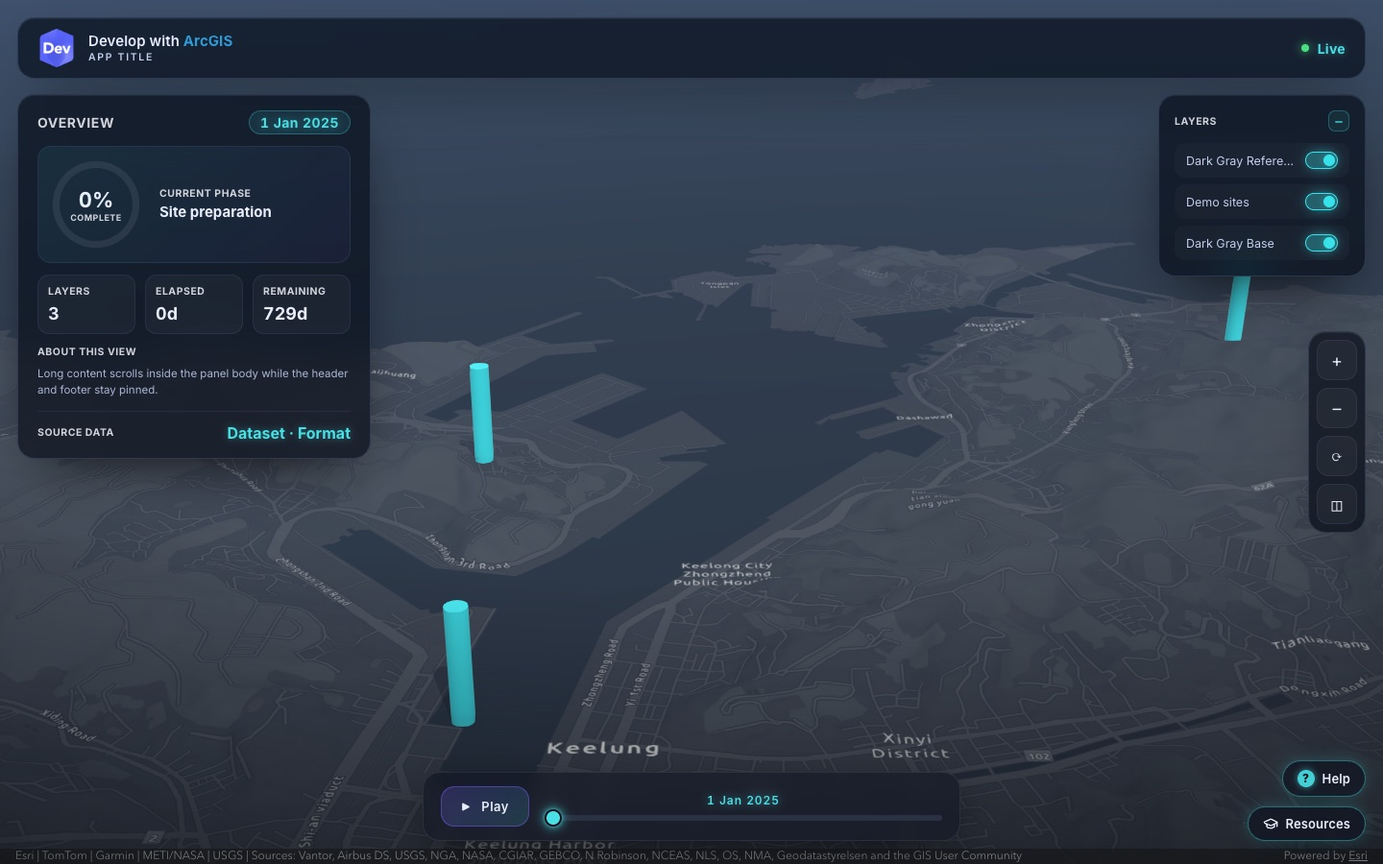
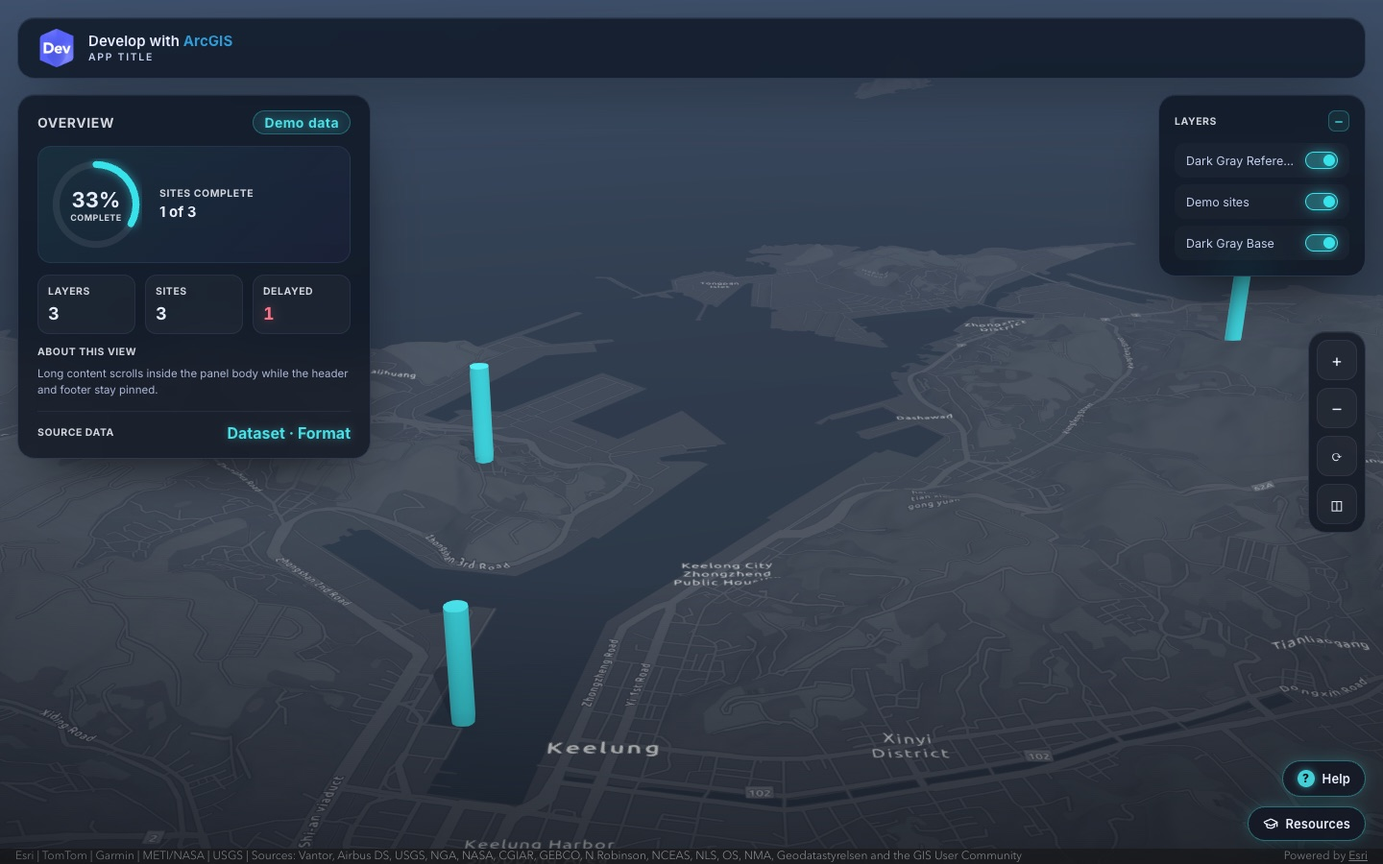
Make the timeline dock optional and remove the Live status
- Starter: the timeline dock is commented out by default and its script
  block only runs when the dock exists. The overview panel now summarizes
  the demo sites instead of depending on the timeline.
- Top bar: drop the "Live" status text.
- Kit v1.1: the FAB stack and the phone layers panel only lift above the
  dock when there is one (body:has(.dock)).
- SKILL.md asks whether an app needs a timeline before adding the dock;
  patterns, checklist, retrofit guide, README and screenshot updated.

diff --git a/skills/arcgis-js-app-template/assets/starter.js b/skills/arcgis-js-app-template/assets/starter.js
@@ -1,6 +1,7 @@
 // =============================================================================
 // App entry (copy to main.js). Kit wiring is marked KIT; replace the DEMO parts
-// with the app's WebScene/WebMap, layers and logic.
+// with the app's WebScene/WebMap, layers and logic. OPTIONAL parts only run when
+// their markup is enabled in index.html; delete them if the app doesn't need them.
 // =============================================================================
 
 import {
@@ -82,6 +83,19 @@ const view = new SceneView({
   )
 );
 
+// --- DEMO: dashboard summarizing the demo sites --------------------------------
+const sites = demoLayer.graphics.toArray().map((graphic) => graphic.attributes);
+const complete = sites.filter((site) => site.status === "Complete").length;
+const delayed = sites.filter((site) => site.status === "Delayed").length;
+const pctComplete = Math.round((complete / sites.length) * 100);
+document.getElementById("progressRing").style.setProperty("--pct", pctComplete);
+document.getElementById("progressPct").textContent = `${pctComplete}%`;
+document.getElementById("completeSummary").textContent = `${complete} of ${sites.length}`;
+document.getElementById("siteCount").textContent = String(sites.length);
+const delayedCount = document.getElementById("delayedCount");
+delayedCount.textContent = String(delayed);
+delayedCount.classList.toggle("is-bad", delayed > 0);
+
 // --- KIT: match the view to the theme, reveal when it has drawn ---------------
 applyViewTheme(view);
 await boot.track(whenViewReady(view));
@@ -111,7 +125,6 @@ renderLayerToggles(view.map.allLayers.filter((layer) => layer.type !== "elevatio
 bindFlyout("#toolBtn", "#toolFlyout", {
   onToggle: (open) => {
     // e.g. create an <arcgis-slice> in #toolContainer when open, destroy it when closed
-    document.getElementById("status").textContent = open ? "Tool active" : "Live";
   }
 });
 
@@ -143,44 +156,45 @@ view.on("pointer-leave", () => {
   tooltip.hide();
 });
 
-// --- DEMO: timeline dock driving the dashboard --------------------------------
+// --- OPTIONAL: timeline dock ----------------------------------------------------
+// Only for apps with time-based data, phases or animation. Runs when the dock in
+// index.html is uncommented; delete this block if the app has no timeline.
 const scrub = document.getElementById("scrub");
-const repaint = bindRange(scrub);
-const start = new Date(2025, 0, 1);
-const end = new Date(2026, 11, 31);
-const dayMs = 86400000;
-const phases = ["Site preparation", "Foundations", "Structure", "Envelope", "Fit-out"];
+if (scrub) {
+  const repaint = bindRange(scrub);
+  // EDIT: the app's time span
+  const start = new Date(2025, 0, 1);
+  const end = new Date(2026, 11, 31);
 
-function render(pct) {
-  const date = new Date(+start + ((end - start) * pct) / 100);
-  const label = date.toLocaleDateString(undefined, { year: "numeric", month: "short", day: "numeric" });
-  document.getElementById("progressRing").style.setProperty("--pct", pct);
-  document.getElementById("progressPct").textContent = `${Math.round(pct)}%`;
-  document.getElementById("phase").textContent = phases[Math.min(phases.length - 1, Math.floor(pct / 20))];
-  document.getElementById("elapsed").textContent = `${Math.round((date - start) / dayMs)}d`;
-  document.getElementById("remaining").textContent = `${Math.round((end - date) / dayMs)}d`;
-  document.getElementById("scrubLabel").textContent = label;
-  document.getElementById("dateChip").textContent = label;
+  const render = (pct) => {
+    const date = new Date(+start + ((end - start) * pct) / 100);
+    document.getElementById("scrubLabel").textContent = date.toLocaleDateString(undefined, {
+      year: "numeric",
+      month: "short",
+      day: "numeric"
+    });
+    // Apply the date to the scene here, e.g. view.timeExtent for time-aware layers.
+  };
+  scrub.addEventListener("input", () => render(Number(scrub.value)));
+  render(Number(scrub.value));
+
+  const playBtn = document.getElementById("playBtn");
+  let timer = null;
+  playBtn.addEventListener("click", () => {
+    const playing = timer === null;
+    playBtn.classList.toggle("is-playing", playing);
+    playBtn.setAttribute("aria-pressed", String(playing));
+    playBtn.querySelector(".play-btn__icon").textContent = playing ? "❚❚" : "▶";
+    document.getElementById("playLabel").textContent = playing ? "Pause" : "Play";
+    if (!playing) {
+      clearInterval(timer);
+      timer = null;
+      return;
+    }
+    timer = setInterval(() => {
+      scrub.value = String((Number(scrub.value) + 1) % 101);
+      repaint();
+      render(Number(scrub.value));
+    }, 120);
+  });
 }
-scrub.addEventListener("input", () => render(Number(scrub.value)));
-render(Number(scrub.value));
-
-const playBtn = document.getElementById("playBtn");
-let timer = null;
-playBtn.addEventListener("click", () => {
-  const playing = timer === null;
-  playBtn.classList.toggle("is-playing", playing);
-  playBtn.setAttribute("aria-pressed", String(playing));
-  playBtn.querySelector(".play-btn__icon").textContent = playing ? "❚❚" : "▶";
-  document.getElementById("playLabel").textContent = playing ? "Pause" : "Play";
-  if (!playing) {
-    clearInterval(timer);
-    timer = null;
-    return;
-  }
-  timer = setInterval(() => {
-    scrub.value = String((Number(scrub.value) + 1) % 101);
-    repaint();
-    render(Number(scrub.value));
-  }, 120);
-});

diff --git a/skills/arcgis-js-app-template/assets/starter.html b/skills/arcgis-js-app-template/assets/starter.html
@@ -76,18 +76,13 @@
           <span class="tab-link__label">Second view</span>
         </a> -->
       </nav>
-
-      <div class="topbar__status">
-        <span class="dot dot--live" aria-hidden="true"></span>
-        <span id="status">Live</span>
-      </div>
     </header>
 
     <!-- ===================== LEFT DASHBOARD ===================== -->
     <aside class="panel panel--left glass" aria-label="Dashboard">
       <div class="panel__head">
         <h2 class="panel__title">Overview</h2>
-        <span class="chip" id="dateChip">—</span>
+        <span class="chip">Demo data</span>
       </div>
 
       <div class="panel__body">
@@ -103,15 +98,15 @@
             </div>
           </div>
           <div class="ring-card__meta">
-            <span class="kicker">Current phase</span>
-            <strong id="phase">—</strong>
+            <span class="kicker">Sites complete</span>
+            <strong id="completeSummary">—</strong>
           </div>
         </section>
 
         <section class="metrics">
           <div class="metric"><span class="kicker">Layers</span><strong id="layerCount">0</strong></div>
-          <div class="metric"><span class="kicker">Elapsed</span><strong id="elapsed">0d</strong></div>
-          <div class="metric"><span class="kicker">Remaining</span><strong id="remaining">0d</strong></div>
+          <div class="metric"><span class="kicker">Sites</span><strong id="siteCount">0</strong></div>
+          <div class="metric"><span class="kicker">Delayed</span><strong id="delayedCount">0</strong></div>
         </section>
 
         <section class="panel__section">
@@ -155,7 +150,11 @@
       <div class="flyout__widget" id="toolContainer"></div>
     </aside>
 
-    <!-- ===================== BOTTOM DOCK ===================== -->
+    <!-- ===================== TIMELINE DOCK (optional) =====================
+         Only for apps with time-based data, phases or animation. To use it,
+         delete the two comment lines around the footer below; the OPTIONAL
+         block in main.js wires it. -->
+    <!--
     <footer class="dock" aria-label="Timeline">
       <button class="play-btn" type="button" id="playBtn" aria-pressed="false">
         <span class="play-btn__icon" aria-hidden="true">▶</span>
@@ -166,6 +165,7 @@
         <input class="scrub__range" id="scrub" type="range" min="0" max="100" step="1" value="0" aria-label="Timeline" data-range-fill />
       </div>
     </footer>
+    -->
 
     <!-- ===================== HOVER TOOLTIP ===================== -->
     <div class="tooltip glass" id="tooltip" role="tooltip" aria-hidden="true">

diff --git a/skills/arcgis-js-app-template/assets/showcase.css b/skills/arcgis-js-app-template/assets/showcase.css
@@ -1,5 +1,5 @@
 /* =============================================================================
-   Esri Dev Showcase UI kit · v1.0
+   Esri Dev Showcase UI kit · v1.1
    Dark glass panels over a full-bleed ArcGIS view. Extracted from the
    construction-timelapse reference app (dchantlos.github.io/construction-timelapse).
 
@@ -1579,9 +1579,10 @@ body {
   }
 }
 
-/* Below ~900px the centered dock would collide with the FAB stack: lift FABs */
+/* Below ~900px the centered dock would collide with the FAB stack: lift FABs.
+   Only when the app has a dock — it is optional. */
 @media (max-width: 900px) {
-  .fab-stack {
+  body:has(.dock) .fab-stack {
     bottom: calc(var(--safe-bottom) + 84px);
   }
 }
@@ -1604,14 +1605,18 @@ body {
     width: calc(100vw - 2 * var(--edge));
     max-height: 40vh;
   }
-  /* One right panel on phones: it moves above the dock, beside the FAB column */
+  /* One right panel on phones: at the bottom beside the FAB column, above the
+     dock when there is one */
   .panel--right {
     top: auto;
     left: var(--edge);
     right: calc(var(--edge) + 52px);
-    bottom: calc(var(--safe-bottom) + 84px);
+    bottom: var(--safe-bottom);
     width: auto;
     max-height: 28vh;
+  }
+  body:has(.dock) .panel--right {
+    bottom: calc(var(--safe-bottom) + 84px);
   }
   .nav-stack,
   .flyout {
@@ -1628,7 +1633,7 @@ body {
   .fab__label {
     display: none;
   }
-  .fab-stack {
+  body:has(.dock) .fab-stack {
     bottom: calc(var(--safe-bottom) + 76px);
   }
 }

diff --git a/skills/arcgis-js-app-template/assets/showcase.js b/skills/arcgis-js-app-template/assets/showcase.js
@@ -1,5 +1,5 @@
 // =============================================================================
-// Esri Dev Showcase UI kit · v1.0 — behaviors for showcase.css
+// Esri Dev Showcase UI kit · v1.1 — behaviors for showcase.css
 // Dependency-free ES module. Works with Core API views (SceneView/MapView) and
 // with <arcgis-scene>/<arcgis-map> components. HTML passed to these helpers
 // (icons, panel content) must be trusted, authored markup — never user input.

diff --git a/skills/arcgis-js-app-template/references/patterns.md b/skills/arcgis-js-app-template/references/patterns.md
@@ -1,13 +1,13 @@
 # Component patterns
 
-Every component below is already wired in [starter.html](../assets/starter.html) and [starter.js](../assets/starter.js) — copy markup from there. This file lists the classes, the JS helper that drives each component, and the rules that keep apps consistent.
+Every component below is already wired in [starter.html](../assets/starter.html) and [starter.js](../assets/starter.js) — copy markup from there. Optional parts (the timeline dock, a second-page tab) are commented out in starter.html. This file lists the classes, the JS helper that drives each component, and the rules that keep apps consistent.
 
 ## Page skeleton (z-order, bottom → top)
 
 | Layer | Element | Notes |
 |---|---|---|
 | View | `#viewDiv.vignette` or `<arcgis-scene class="sc-view vignette">` | Full-bleed. Vignette is optional. |
-| Chrome | `.topbar`, `.panel--left`, `.panel--right`, `.nav-stack`, `.flyout`, `.dock` | `position: absolute`, always add `.glass` (except `.dock`, which has its own lighter glass). |
+| Chrome | `.topbar`, `.panel--left`, `.panel--right`, `.nav-stack`, `.flyout`, `.dock` (optional) | `position: absolute`, always add `.glass` (except `.dock`, which has its own lighter glass). |
 | Pop-ups | `.tooltip` | Follows the pointer (`createTooltip`). |
 | Floating | `.fab-stack` › `.fab`, `.float-panel` | Bottom-right, above the attribution strip. |
 | Veil | `#boot.boot` | Covers everything until the view is ready. |
@@ -17,7 +17,7 @@ Every component below is already wired in [starter.html](../assets/starter.html)
 
 - `.topbar.glass` › `.brand` (link to `https://developers.arcgis.com/`, `target="_blank" rel="noopener noreferrer"`) › `.brand__logo-wrap` (`.brand__logo` = `dev-logo.png` + `.brand__glow`) + `.brand__text` (`.brand__badge` "Develop with <span class=brand__accent>ArcGIS</span>" + `.brand__title` app name).
 - Optional `.topbar__nav` › `.tab-link` (icon + `.tab-link__label`) to switch between pages of the same app; label hides on phones.
-- `.topbar__status` (with optional `.dot.dot--live`) for one short live status string. Hidden on phones.
+- Optional `.topbar__status` for one short status or location string (e.g. "Taiwan · Keelung"); not in the starter. Add `.dot.dot--live` only when the data really is live. Hidden on phones.
 - Never replace the Dev logo, the "Develop with ArcGIS" badge or its colors per app — they are brand constants.
 
 ## Loading veil
@@ -39,7 +39,7 @@ Every component below is already wired in [starter.html](../assets/starter.html)
 ```
 
 - Only `.panel__body` scrolls (thin accent scrollbar, `overscroll-behavior: contain`). Head and foot stay pinned. Never make the whole panel scroll.
-- `.panel--left` (368 px dashboard) and `.panel--right` (216 px list). On phones the left panel becomes full width (40 vh) and one right panel moves above the dock.
+- `.panel--left` (368 px dashboard) and `.panel--right` (216 px list). On phones the left panel becomes full width (40 vh) and one right panel moves to the bottom (above the dock, if there is one).
 - With a `.nav-stack`, the right panel is capped to end above it; set `--nav-stack-h` if the stack has more than 4 buttons.
 - Collapse: add `button.panel-collapse[data-panel-toggle]` in the head; `initShowcase()` wires it (`+`/`–`, `aria-expanded`). Start collapsed with `.is-collapsed`.
 - Content primitives: `.panel__section` (+ `.panel__section-head`), `.kicker` (section label), `.panel__note` (help text), `.chip` / `.chip--sm` / `.chip--danger`, `.accent-text`, `.btn-ghost` ("Reset").
@@ -54,15 +54,17 @@ Every component below is already wired in [starter.html](../assets/starter.html)
 - Host SDK tools as **components** (`arcgis-slice`, measurement components) — widgets are deprecated in 5.x. `.flyout .esri-widget` is made transparent so legacy widgets blend in.
 - Remove default view UI (`ui: { components: [] }` or component attributes) and use the nav stack instead. Hidden on phones (pinch/drag instead).
 
-## Bottom dock
+## Timeline dock (optional)
 
+- Only for apps with time-based data, phases or animation; most apps don't need it. It is commented out in starter.html: delete the two comment lines around it and the `OPTIONAL` timeline block in starter.js wires it (the block does nothing when the dock is absent).
 - `footer.dock` › `button.play-btn` (`.play-btn__icon` + label; toggle `.is-playing` + `aria-pressed`) + `.scrub` › `.scrub__label` + `input.scrub__range[type=range][data-range-fill]`.
 - The filled track is CSS (`--fill`). After changing `input.value` in code, call the repaint function returned by `bindRange(input)`.
 - If an SDK TimeSlider drives time-aware layers headlessly, keep its container hidden and drive it from the scrubber (construction-timelapse pattern).
+- With a dock, the FAB stack (below 900 px) and the phone right panel lift above it automatically (`body:has(.dock)`); without one they sit on `--safe-bottom`.
 
 ## Floating buttons, help window, resources modal
 
-- `.fab-stack` (bottom-right) holds every floating button; never position FABs individually. Order = DOM order (top → bottom). It lifts above the dock below 900 px.
+- `.fab-stack` (bottom-right) holds every floating button; never position FABs individually. Order = DOM order (top → bottom). Below 900 px it lifts above the dock when there is one.
 - Help/guide/assistant: `createFloatPanel({ title, label, icon, content, prepend })` adds a `.fab` and a draggable `.float-panel` (Esc closes, focus returns to the FAB). Use `.accordion__item` › `button.accordion__q` (+ `.accordion__chev`) + `.accordion__a` for Q&A content.
 - Resources: static `.fab#resourcesFab` + `.modal#resources[hidden]` › `.modal__panel` (head with `.modal__icon`, `.modal__titles`, `.modal__close[data-modal-close]`) › `.modal__group` › `a.link-card` (`.link-card__badge`, `__body`, `__title`, `__desc`, `svg.link-card__arrow`). Wire with `createModal("#resources", { trigger: "#resourcesFab" })`.
 - Optional `a.esri-badge.glass` ("Powered by Esri") goes last inside `.fab-stack`. It does **not** replace the SDK attribution.

diff --git a/skills/arcgis-js-app-template/SKILL.md b/skills/arcgis-js-app-template/SKILL.md
@@ -1,6 +1,6 @@
 ---
 name: arcgis-js-app-template
-description: 'Template for starting custom ArcGIS Maps SDK for JavaScript web apps in the Esri Developers showcase style of the construction-timelapse app: Dev logo top bar and loading screen, dark glass panels with pinned headers and thin scrolling bodies, timeline dock with play button and scrubber, welcome dialog, Help and Resources floating buttons, hover tooltip, layer toggles, ?clean screenshot mode and per-app color themes (cyan, seafoam). Ships a dependency-free CSS/JS kit and a starter page. Use when starting a new custom web app, demo or digital twin from a template, restyling or retrofitting an existing app to this look, adding a panel, control, dialog or floating button, theming an app, or reviewing UI consistency, accessibility and Esri attribution.'
+description: 'Template for starting custom ArcGIS Maps SDK for JavaScript web apps in the Esri Developers showcase style of the construction-timelapse app: Dev logo top bar and loading screen, dark glass panels with pinned headers and thin scrolling bodies, welcome dialog, Help and Resources floating buttons, hover tooltip, layer toggles, ?clean screenshot mode, per-app color themes (cyan, seafoam) and an optional timeline dock (play button and scrubber) for time-based data. Ships a dependency-free CSS/JS kit and a starter page. Use when starting a new custom web app, demo or digital twin from a template, restyling or retrofitting an existing app to this look, adding a panel, control, dialog, floating button or timeline, theming an app, or reviewing UI consistency, accessibility and Esri attribution.'
 license: Apache-2.0
 argument-hint: 'new <app> | retrofit <app> | add <component> | theme <app> | review'
 ---
@@ -34,7 +34,7 @@ Not for SDK API questions (use `build-with-arcgis-maps-sdk-for-javascript` from 
 ## Procedures
 
 ### New app
-1. Confirm app name, theme, target folder and SDK delivery (CDN for single-page demos; Vite when the app needs a build).
+1. Confirm app name, theme, target folder, SDK delivery (CDN for single-page demos; Vite when the app needs a build) and whether the app needs a timeline (time-aware layers, phases or animation). Most apps don't; the timeline dock is off by default.
 2. Copy the kit and starter into the app folder. `KIT` is the `assets/` folder next to this SKILL.md, wherever the skill is installed (for example `~/.copilot/skills/arcgis-js-app-template/assets`):
    ```bash
    KIT="<this skill's folder>/assets"
@@ -44,8 +44,9 @@ Not for SDK API questions (use `build-with-arcgis-maps-sdk-for-javascript` from 
    Swap `theme-cyan.css` for the chosen theme in both the copy and the `<link>`.
 3. Fill every `EDIT` marker in `index.html` and `main.js` (title, veil text, welcome copy, brand title, provenance, help content, resources links).
 4. Replace the `DEMO` parts of `main.js` with the app's WebScene/WebMap, layers and logic; keep the `KIT` parts. For npm/Vite, replace `$arcgis.import()` with `@arcgis/core` imports.
-5. Delete components the app does not need (dock, ring, nav stack…) instead of leaving placeholders.
-6. Validate (below).
+5. Timeline: only if the app needs one, delete the two comment lines around the dock in `index.html` and connect `render()` in the `OPTIONAL` timeline block of `main.js` to the app's time-aware layers. Otherwise delete the commented dock and that block.
+6. Delete components the app does not need (ring, nav stack, flyout…) instead of leaving placeholders.
+7. Validate (below).
 
 ### Retrofit an existing app
 Follow [retrofit.md](./references/retrofit.md): confirm scope and theme → inventory → add kit → map tokens → swap regions one at a time → remove attribution hacks and dead CSS → validate.
@@ -62,7 +63,7 @@ Run [checklist.md](./references/checklist.md) against the running app.
 ## Validation
 1. Serve the app and open it with the client's browser tools, or run `node <this skill's folder>/scripts/screenshots.mjs <url> [outDir]` from the app folder (needs Playwright; see [screenshots.mjs](./scripts/screenshots.mjs)).
 2. Look at every screenshot (desktop + welcome, laptop, phone, `?clean`) and walk the checklist; `report.json` must show `boot: "ready"` and no console issues.
-3. Exercise the interactions: welcome close, Help/Resources, Esc layering, panel collapse, flyout, play/scrubber, hover tooltip + highlight.
+3. Exercise the interactions: welcome close, Help/Resources, Esc layering, panel collapse, flyout, play/scrubber (if the app has the dock), hover tooltip + highlight.
 4. Report anything that could not be verified.
 
 ## Files
@@ -71,7 +72,7 @@ Run [checklist.md](./references/checklist.md) against the running app.
 | [assets/showcase.css](./assets/showcase.css) | Tokens, components, Calcite bridge, `?clean`, responsive, reduced motion |
 | [assets/showcase.js](./assets/showcase.js) | Behaviors: boot veil, view reveal + theme, welcome, panels, flyouts, FABs, float panels, modals, scrubber, nav, tooltip |
 | [assets/theme-cyan.css](./assets/theme-cyan.css), [assets/theme-seafoam.css](./assets/theme-seafoam.css) | Themes |
-| [assets/starter.html](./assets/starter.html), [assets/starter.js](./assets/starter.js) | New-app template with every component wired |
+| [assets/starter.html](./assets/starter.html), [assets/starter.js](./assets/starter.js) | New-app template with every component wired; the timeline dock is commented out (optional) |
 | [assets/dev-logo.png](./assets/dev-logo.png), [assets/esri-logo.png](./assets/esri-logo.png) | Brand assets (keep `dev-logo.png` next to `showcase.css`) |
 | [references/patterns.md](./references/patterns.md) | Component catalog, SDK integration notes, JS API |
 | [references/retrofit.md](./references/retrofit.md) | Step-by-step retrofit + Badouzi mapping |

diff --git a/README.md b/README.md
@@ -1,6 +1,6 @@
 # ArcGIS JS App Template
 
-A template for starting custom web apps with the [ArcGIS Maps SDK for JavaScript](https://developers.arcgis.com/javascript/latest/), packaged as an [agent skill](https://agentskills.io) for GitHub Copilot, Claude Code, Cursor, Codex and other AI coding agents. Ask your agent for a new app and it starts from this template instead of a blank page: Esri Developers branding, a loading screen, dark glass panels, a timeline dock, a welcome dialog, Help and Resources buttons, layer toggles, color themes and a screenshot mode.
+A template for starting custom web apps with the [ArcGIS Maps SDK for JavaScript](https://developers.arcgis.com/javascript/latest/), packaged as an [agent skill](https://agentskills.io) for GitHub Copilot, Claude Code, Cursor, Codex and other AI coding agents. Ask your agent for a new app and it starts from this template instead of a blank page: Esri Developers branding, a loading screen, dark glass panels, a welcome dialog, Help and Resources buttons, layer toggles, color themes, a screenshot mode, and an optional timeline dock for apps with time-based data.
 
 ![The starter app](docs/starter.jpg)
 
@@ -28,11 +28,12 @@ Ask in agent mode, for example:
 
 - "Start a new ArcGIS app from the template for a stadium digital twin, seafoam theme"
 - "Retrofit ./my-app to the template look"
+- "Add the timeline dock for the construction phases"
 - "Add a layer list panel" or "Review the app against the template checklist"
 
 In VS Code you can also type `/arcgis-js-app-template new <app>` (or `retrofit`, `add`, `theme`, `review`).
 
-The agent copies the kit and starter into your project, fills in the `EDIT` placeholders, replaces the demo scene with your web scene or web map, and removes the parts you don't need.
+The agent copies the kit and starter into your project, fills in the `EDIT` placeholders, replaces the demo scene with your web scene or web map, adds the timeline dock only if your app has time-based data, and removes the parts you don't need.
 
 ## Use it without an agent
 
@@ -48,7 +49,7 @@ cp "$KIT/starter.js" my-app/main.js
 cd my-app && python3 -m http.server 8080   # any static server works; ES modules don't load from file://
 ```
 
-Open <http://localhost:8080>. The demo scene needs no API key. Then search `index.html` and `main.js` for `EDIT`, and replace the `DEMO` parts of `main.js` with your own scene. [patterns.md](skills/arcgis-js-app-template/references/patterns.md) lists every component and its JavaScript helper.
+Open <http://localhost:8080>. The demo scene needs no API key. Then search `index.html` and `main.js` for `EDIT`, and replace the `DEMO` parts of `main.js` with your own scene. The timeline dock is off by default; for time-based data, delete the two comment lines around it in `index.html`. [patterns.md](skills/arcgis-js-app-template/references/patterns.md) lists every component and its JavaScript helper.
 
 ## What's inside
 

diff --git a/skills/arcgis-js-app-template/references/retrofit.md b/skills/arcgis-js-app-template/references/retrofit.md
@@ -42,7 +42,7 @@ Grep for class-name collisions with the kit before linking it: `.panel`, `.chip`
 ## 4. Swap the regions (one at a time, verify after each)
 
 1. **Loader → boot veil.** Replace the overlay with `#boot.boot` markup; call `createBoot()` at startup and `await boot.track(whenViewReady(view))` where the old overlay was dismissed. Delete the old overlay CSS/JS afterwards.
-2. **Header → top bar.** `.topbar.glass` with the Dev logo `.brand`; app title in `.brand__title`; status in `.topbar__status`.
+2. **Header → top bar.** `.topbar.glass` with the Dev logo `.brand`; app title in `.brand__title`; short status or location text, if any, in `.topbar__status`.
 3. **Panels → `.panel`.** Wrap content as `__head` / `__body` / `__foot`; move scrolling to `.panel__body`; replace custom collapse buttons with `[data-panel-toggle]`. Rebuild cards with `.metric`, `.chip`, `.kicker`, `.ring-card`, `.toggle-list`.
 4. **Controls.** Default SDK zoom/compass → `.nav-stack` + `bindNavStack(view)`; tool panels → `.flyout` + `bindFlyout()`. Replace deprecated widgets with components while moving them (coordinate with the `build-with-arcgis-maps-sdk-for-javascript` skill if installed).
 5. **Bottom controls → `.dock`** (play + scrubber) when the app has a timeline or animation.

diff --git a/skills/arcgis-js-app-template/references/checklist.md b/skills/arcgis-js-app-template/references/checklist.md
@@ -20,7 +20,8 @@ It captures desktop (with and without the welcome dialog), laptop, phone and `?c
 
 ## Layout + scrolling
 - [ ] Panel heads/foots stay pinned; only `.panel__body` scrolls, with the thin accent scrollbar.
-- [ ] Nothing overlaps at 1440×900, 1024×768 and 390×844: top bar, panels, nav stack, dock, FAB stack, attribution.
+- [ ] Nothing overlaps at 1440×900, 1024×768 and 390×844: top bar, panels, nav stack, dock (if any), FAB stack, attribution.
+- [ ] A timeline dock only if the app has time-based data, phases or animation; without one, the FAB stack and phone panel sit at the bottom with no gap.
 - [ ] Every surface uses `.glass` (or the dock's own glass); no stray default-styled widgets.
 
 ## Theme
